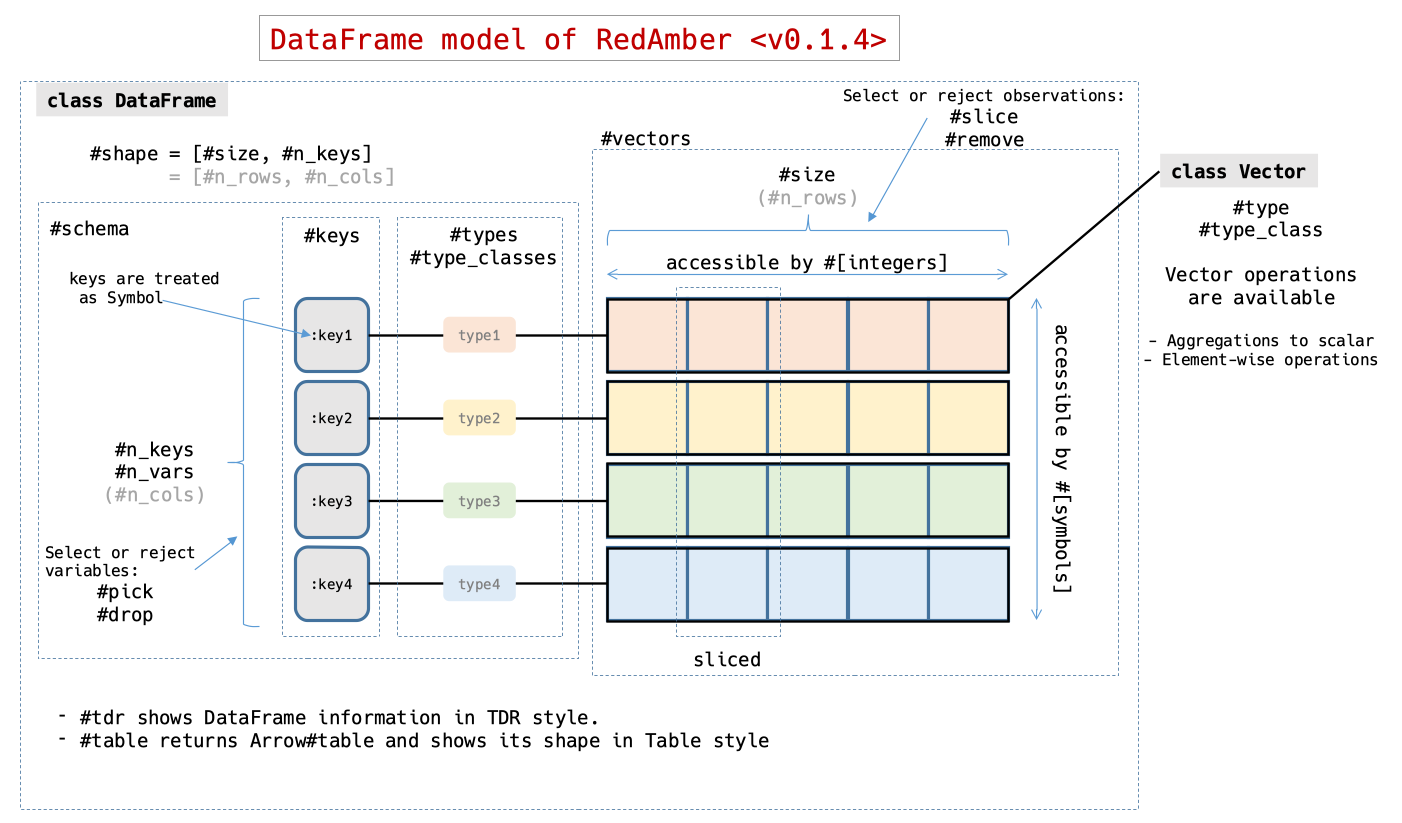
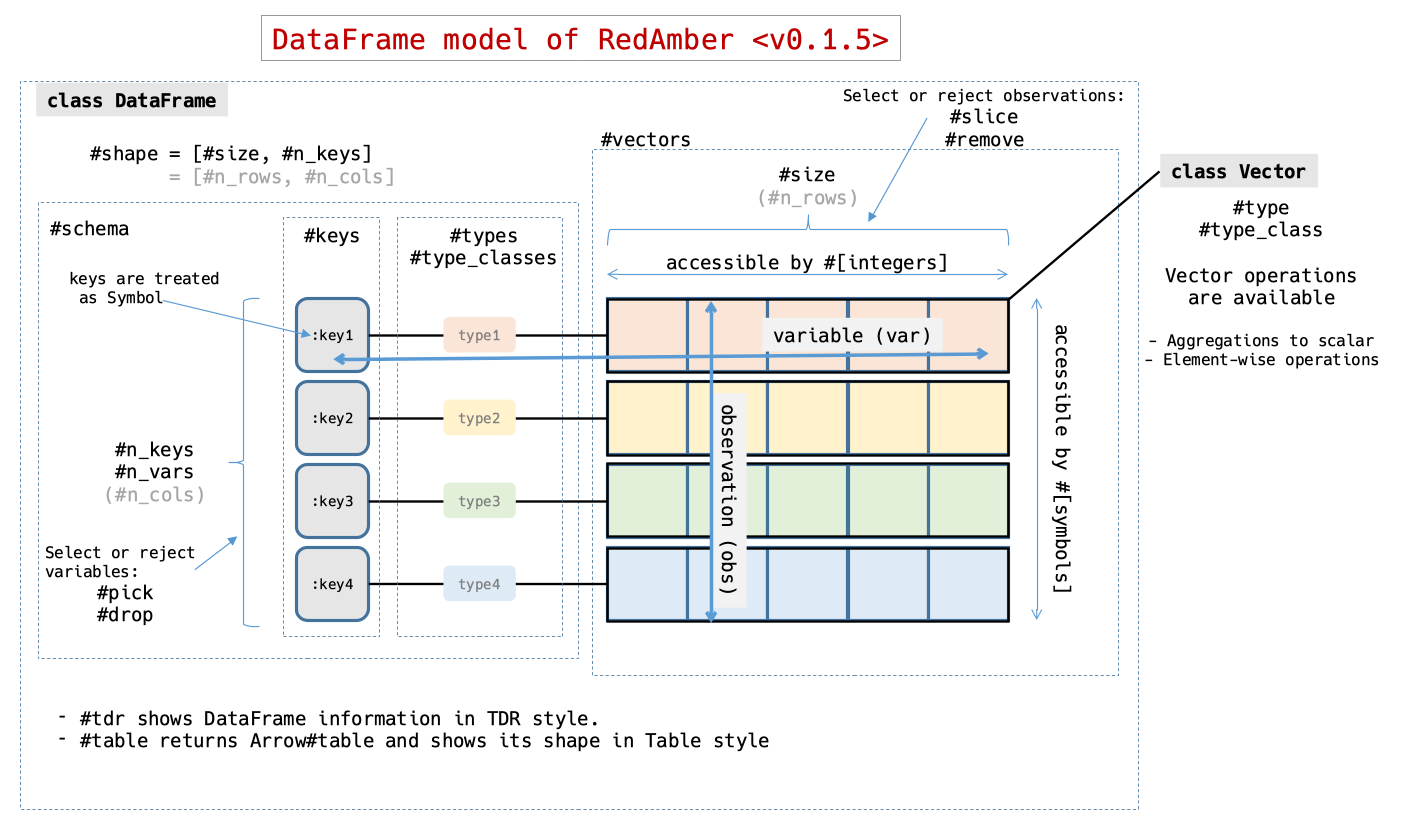
:memo: Update README and dataframe_model image

diff --git a/README.md b/README.md
@@ -17,8 +17,8 @@ gem 'rover-df',    '~> 0.3.0' # if you use IO from/to Rover::DataFrame
 
 Install requirements before you install Red Amber.
 
-- Apache Arrow GLib (>= 7.0.0)
-- Apache Parquet GLib (>= 7.0.0)
+- Apache Arrow GLib (>= 8.0.0)
+- Apache Parquet GLib (>= 8.0.0)
 
   See [Apache Arrow install document](https://arrow.apache.org/install/).
   
@@ -50,8 +50,9 @@ Represents a set of data in 2D-shape.
 require 'red_amber'
 require 'datasets-arrow'
 
-penguins = Datasets::Penguins.new.to_arrow
-puts RedAmber::DataFrame.new(penguins).tdr
+arrow = Datasets::Penguins.new.to_arrow
+penguins = RedAmber::DataFrame.new(arrow)
+penguins.tdr
 # =>
 RedAmber::DataFrame : 344 x 8 Vectors
 Vectors : 5 numeric, 3 strings
@@ -114,6 +115,12 @@ Vectors : 5 numeric, 3 strings
 8 :year              int64      3 {2007=>109, 2008=>114, 2009=>119}
 ```
 
+For this frequently needed task, we can do it much simpler.
+
+```ruby
+penguins.remove_nil # => same result as above
+```
+
 See [DataFrame.md](doc/DataFrame.md) for details.
 
 
@@ -122,10 +129,10 @@ See [DataFrame.md](doc/DataFrame.md) for details.
 Class `RedAmber::Vector` represents a series of data in the DataFrame.
 
 ```ruby
-penguins[:species]
+penguins[:bill_length_mm]
 # =>
-#<RedAmber::Vector(:string, size=344):0x000000000000f8e8>
-["Adelie", "Adelie", "Adelie", "Adelie", "Adelie", "Adelie", "Adelie", "Adelie", ... ]
+#<RedAmber::Vector(:double, size=344):0x000000000000f8fc>
+[39.1, 39.5, 40.3, nil, 36.7, 39.3, 38.9, 39.2, 34.1, 42.0, 37.8, 37.8, 41.1, ... ]
 ```
 
 Vectors accepts some [functional methods from Arrow](https://arrow.apache.org/docs/cpp/compute.html).
